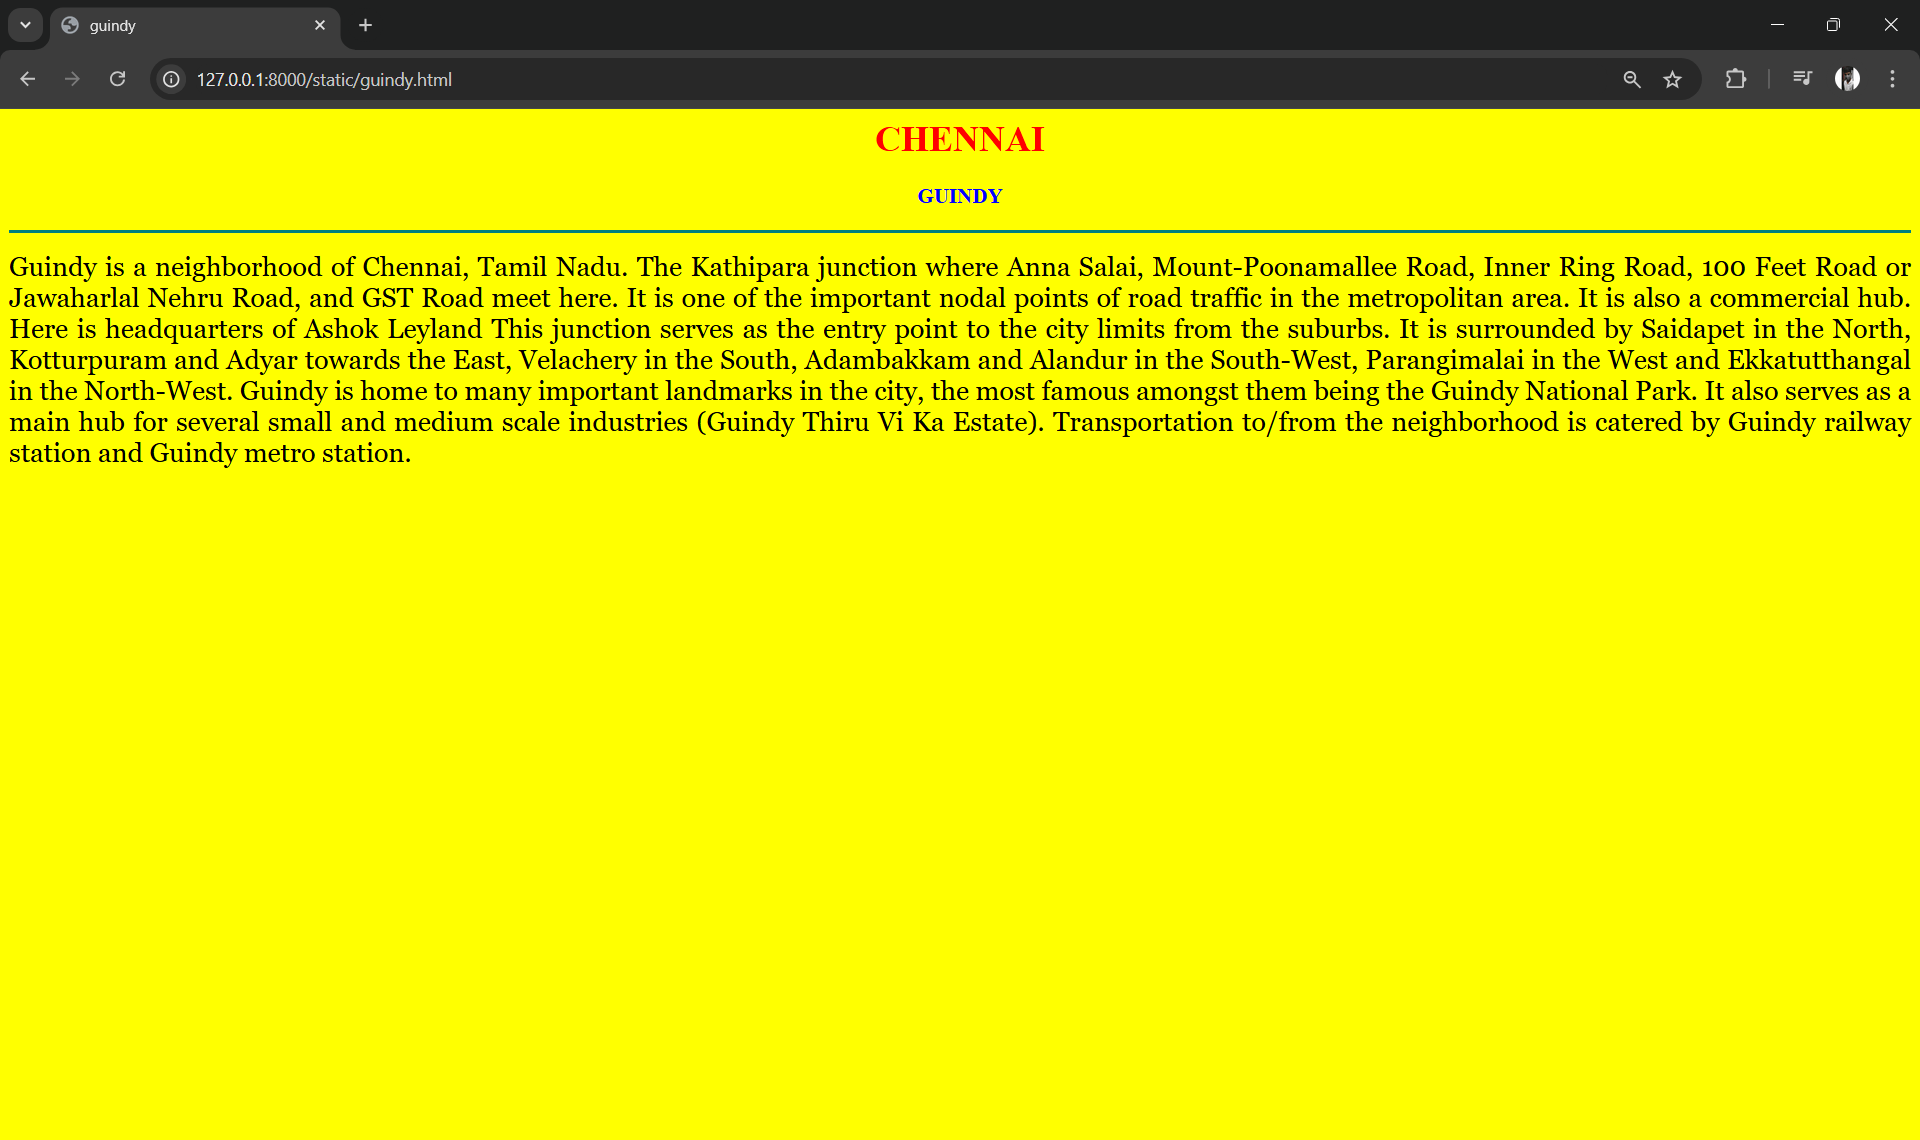
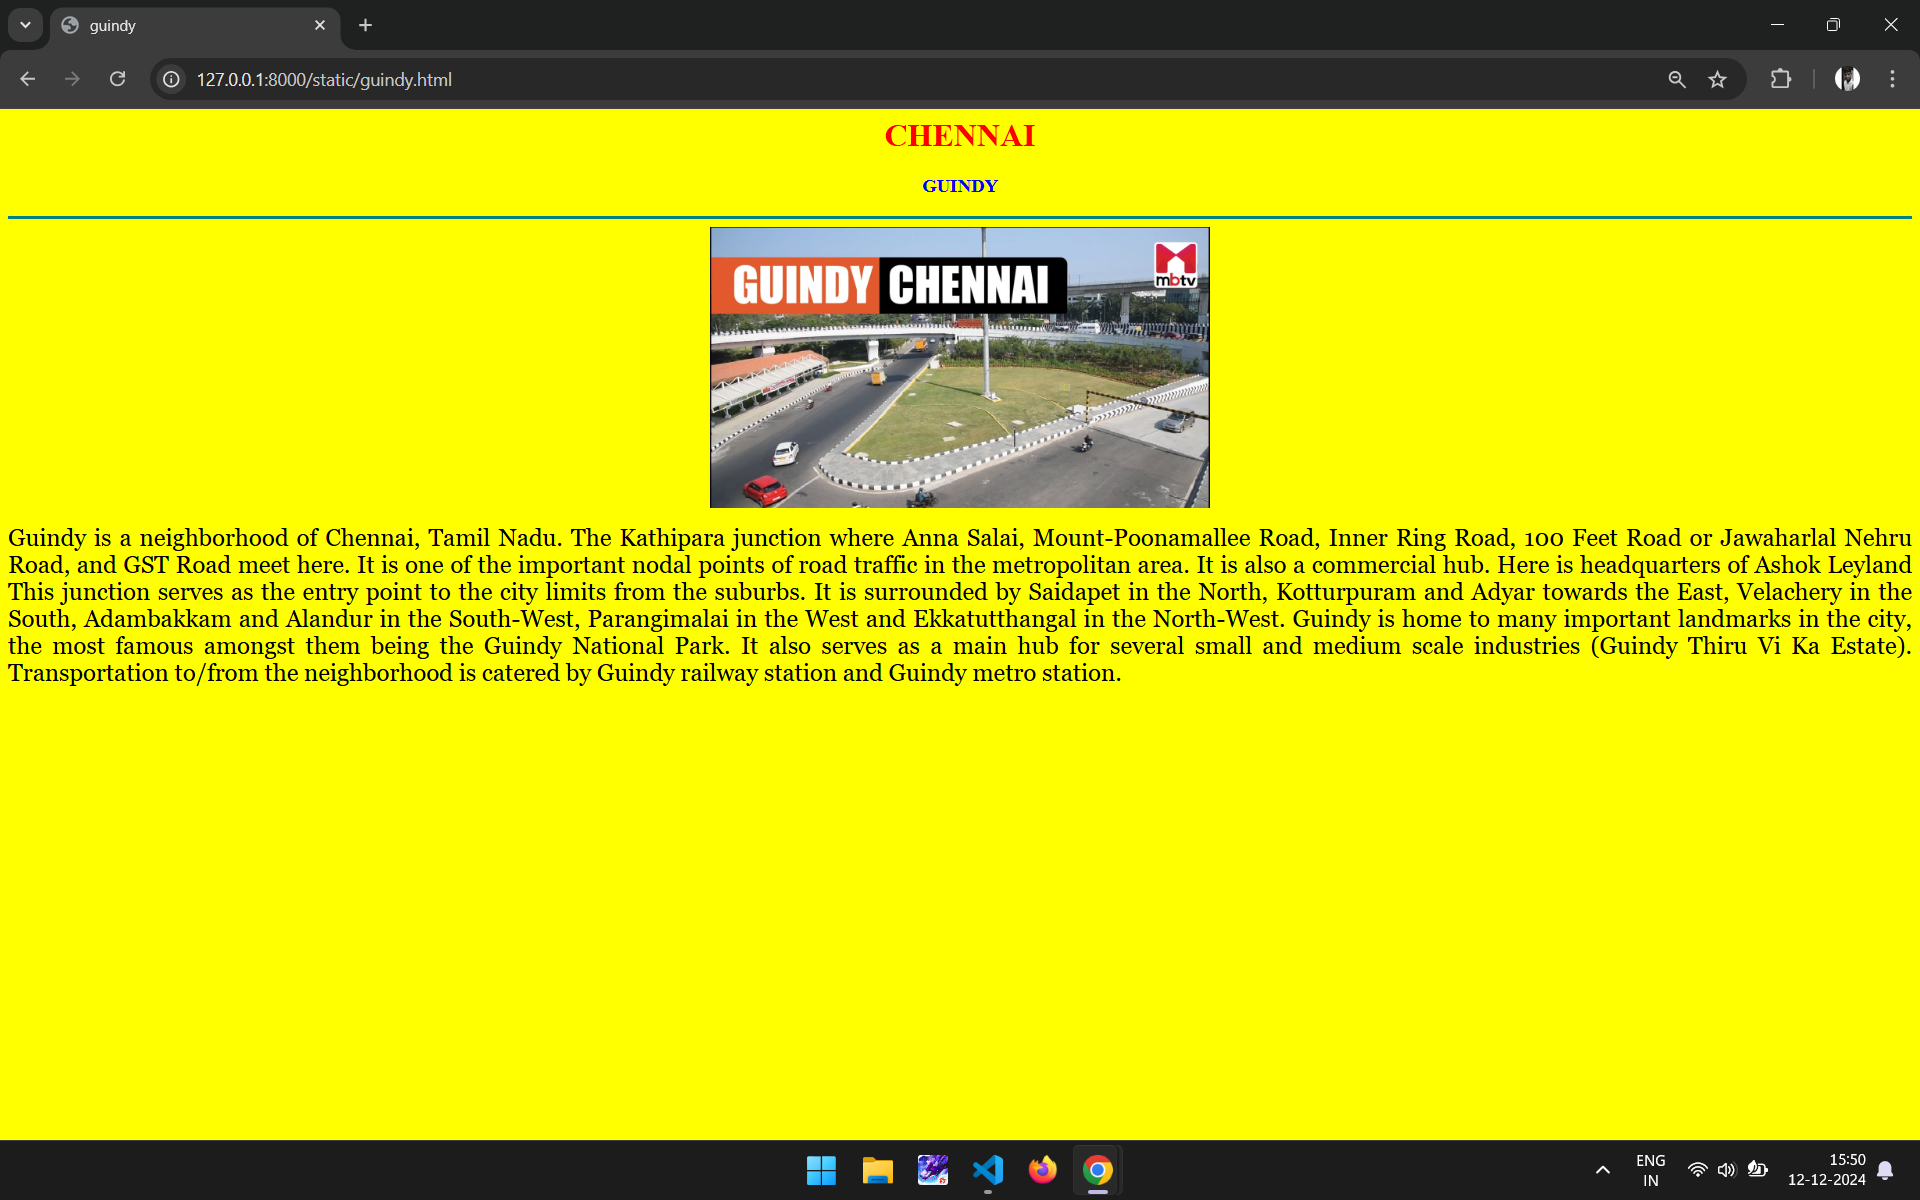
success

Changed region(s): [[0.0, 0.0307, 1.0, 0.5833], [0.0, 0.9518, 1.0, 1.0], [0.0312, 0.0, 0.0625, 0.0307]]

diff --git a/daniyel/mapapp/static/avadi.html b/daniyel/mapapp/static/avadi.html
@@ -1,21 +1,25 @@
 <html>
     <head>
-        <title>
-            avadi
-        </title>
+        <title>avadi</title>
     </head>
     <body bgcolor="cyan">
         <h1 align="center">
-            <font color="red"><b>CHENNAI</b></font></h1>
+            <font color="red"><b>CHENNAI</b></font>
+        </h1>
         <h3 align="center">
-
-        <font color="green"><b>AVADI</b></font>
+            <font color="green"><b>AVADI</b></font>
         </h3>
-       <hr size="3" color="teal">
-       <p align="justify" >
-        <font face="Georgia" size="5">
-            Avadi is a western suburb of Chennai, and the headquarters of Avadi taluk located within the Thiruvallur district of Tamil Nadu, India. Situated at about 22 kilometres (14 mi) from Chennai Central Railway Station, it is one of the four municipal corporations in the Chennai Metropolitan Area and is governed by the Avadi Municipal Corporation. It is surrounded by major defence establishments and is home to various universities and engineering colleges. The neighborhood is served by Avadi Railway Station of the Chennai Suburban Railway and just 7 km from the upcoming Karayanchavadi Metro of Chennai Metro Rail . As of 2011, Avadi had a population of 345,996, which is 10th most populous place in Tamil Nadu. It is home to the Heavy Vehicles Factory (HVF), Ordnance Factory Board (ODF) which houses Engine Factory and Combat Vehicles Research and Development Establishment (CVRDE). The lake in Avadi was known as Paaleripattu, which is now found only in very old land documents.
-        </font>
-       </p>
+        <hr size="3" color="teal">
+        
+        <!-- Add image here -->
+        <div align="center">
+            <img src="avadi.jpg" alt="Avadi Image" width="500" height="auto">
+        </div>
+
+        <p align="justify">
+            <font face="Georgia" size="5">
+                Avadi is a western suburb of Chennai, and the headquarters of Avadi taluk located within the Thiruvallur district of Tamil Nadu, India. Situated at about 22 kilometres (14 mi) from Chennai Central Railway Station, it is one of the four municipal corporations in the Chennai Metropolitan Area and is governed by the Avadi Municipal Corporation. It is surrounded by major defence establishments and is home to various universities and engineering colleges. The neighborhood is served by Avadi Railway Station of the Chennai Suburban Railway and just 7 km from the upcoming Karayanchavadi Metro of Chennai Metro Rail . As of 2011, Avadi had a population of 345,996, which is 10th most populous place in Tamil Nadu. It is home to the Heavy Vehicles Factory (HVF), Ordnance Factory Board (ODF) which houses Engine Factory and Combat Vehicles Research and Development Establishment (CVRDE). The lake in Avadi was known as Paaleripattu, which is now found only in very old land documents.
+            </font>
+        </p>
     </body>
 </html>

diff --git a/daniyel/mapapp/static/guindy.html b/daniyel/mapapp/static/guindy.html
@@ -1,20 +1,25 @@
 <html>
     <head>
-        <title>
-            guindy
-        </title>
+        <title>guindy</title>
     </head>
     <body bgcolor="yellow">
         <h1 align="center">
-            <font color="red"><b>CHENNAI</b></font></h1>
+            <font color="red"><b>CHENNAI</b></font>
+        </h1>
         <h3 align="center">
             <font color="blue"><b>GUINDY</b></font>
         </h3>
-       <hr size="3" color="teal">
-       <p align="justify" >
-        <font face="Georgia" size="5">
-            Guindy is a neighborhood of Chennai, Tamil Nadu. The Kathipara junction where Anna Salai, Mount-Poonamallee Road, Inner Ring Road, 100 Feet Road or Jawaharlal Nehru Road, and GST Road meet here. It is one of the important nodal points of road traffic in the metropolitan area. It is also a commercial hub. Here is headquarters of Ashok Leyland This junction serves as the entry point to the city limits from the suburbs. It is surrounded by Saidapet in the North, Kotturpuram and Adyar towards the East, Velachery in the South, Adambakkam and Alandur in the South-West, Parangimalai in the West and Ekkatutthangal in the North-West. Guindy is home to many important landmarks in the city, the most famous amongst them being the Guindy National Park. It also serves as a main hub for several small and medium scale industries (Guindy Thiru Vi Ka Estate). Transportation to/from the neighborhood is catered by Guindy railway station and Guindy metro station.
-        </font>
-       </p>
+        <hr size="3" color="teal">
+        
+        <!-- Add the image here -->
+        <div align="center">
+            <img src="guindy.jpg" alt="Guindy Image" width="500" height="auto">
+        </div>
+
+        <p align="justify">
+            <font face="Georgia" size="5">
+                Guindy is a neighborhood of Chennai, Tamil Nadu. The Kathipara junction where Anna Salai, Mount-Poonamallee Road, Inner Ring Road, 100 Feet Road or Jawaharlal Nehru Road, and GST Road meet here. It is one of the important nodal points of road traffic in the metropolitan area. It is also a commercial hub. Here is headquarters of Ashok Leyland This junction serves as the entry point to the city limits from the suburbs. It is surrounded by Saidapet in the North, Kotturpuram and Adyar towards the East, Velachery in the South, Adambakkam and Alandur in the South-West, Parangimalai in the West and Ekkatutthangal in the North-West. Guindy is home to many important landmarks in the city, the most famous amongst them being the Guindy National Park. It also serves as a main hub for several small and medium scale industries (Guindy Thiru Vi Ka Estate). Transportation to/from the neighborhood is catered by Guindy railway station and Guindy metro station.
+            </font>
+        </p>
     </body>
 </html>

diff --git a/daniyel/mapapp/static/ktemple.html b/daniyel/mapapp/static/ktemple.html
@@ -1,22 +1,27 @@
 <html>
     <head>
-        <title>
-            kapaleeshwarar temple
-        </title>
+        <title>kapaleeshwarar temple</title>
     </head>
     <body bgcolor="white">
         <h1 align="center">
-            <font color="red"><b>CHENNAI</b></font></h1>
+            <font color="red"><b>CHENNAI</b></font>
+        </h1>
         <h3 align="center">
             <font color="blue"><b>KAPALEESHWARAR TEMPLE</b></font>
         </h3>
-       <hr size="3" color="teal">
-       <p align="justify" >
-        <font face="Georgia" size="5">
-            The Kapaleeshwarar Temple is a Hindu temple dedicated to the god Shiva located in Mylapore, Chennai in the Indian state of Tamil Nadu. The temple was built around the 7th century CE and is an example of South Indian Architecture.[1][2]
+        <hr size="3" color="teal">
+        
+        <!-- Add the image here -->
+        <div align="center">
+            <img src="ktemple.jpg" alt="Kapaleeshwarar Temple" width="500" height="auto">
+        </div>
 
-According to the Puranas, Parvati worshipped her husband Shiva in the form of a peahen (mayil in Tamil), giving the vernacular name Mylai (Mayilāi) to the area that developed around the temple.[3] Shiva is worshiped as Kapaleeshwarar, and is represented by the lingam. Parvati is worshipped as Karpagambal (goddess of the wish-yielding tree). The presiding deity is revered in the 7th-century Tamil Shaiva canonical work, the Tevaram, written by Tamil saint poets known as the Nayanars and classified as one of the Paadal Petra Sthalam.
-        </font>
-       </p>
+        <p align="justify">
+            <font face="Georgia" size="5">
+                The Kapaleeshwarar Temple is a Hindu temple dedicated to the god Shiva located in Mylapore, Chennai in the Indian state of Tamil Nadu. The temple was built around the 7th century CE and is an example of South Indian Architecture.
+                <br><br>
+                According to the Puranas, Parvati worshipped her husband Shiva in the form of a peahen (mayil in Tamil), giving the vernacular name Mylai (Mayilāi) to the area that developed around the temple. Shiva is worshiped as Kapaleeshwarar, and is represented by the lingam. Parvati is worshipped as Karpagambal (goddess of the wish-yielding tree). The presiding deity is revered in the 7th-century Tamil Shaiva canonical work, the Tevaram, written by Tamil saint poets known as the Nayanars and classified as one of the Paadal Petra Sthalam.
+            </font>
+        </p>
     </body>
 </html>

diff --git a/daniyel/mapapp/static/vtemple.html b/daniyel/mapapp/static/vtemple.html
@@ -1,22 +1,27 @@
 <html>
     <head>
-        <title>
-            vellakottai temple
-        </title>
+        <title>vellakottai temple</title>
     </head>
     <body bgcolor="green">
         <h1 align="center">
-            <font color="red"><b>CHENNAI</b></font></h1>
+            <font color="red"><b>CHENNAI</b></font>
+        </h1>
         <h3 align="center">
             <font color="blue"><b>VELLAKOTTAI TEMPLE</b></font>
         </h3>
-       <hr size="3" color="teal">
-       <p align="justify" >
-        <font face="Georgia" size="5">
-            Vallakottai Subramaniyaswami temple (or Vallakottai Murugan temple) in Vallakottai, a panchayat town in Kanchipuram district in the South Indian state of Tamil Nadu, is dedicated to the Hindu god Murugan. Constructed in the Dravidian style of architecture, the temple is located in the Sriperumbudur - Singaperumalkoil road.
+        <hr size="3" color="teal">
+        
+        <!-- Add the image here -->
+        <div align="center">
+            <img src="vtemple.jpg" alt="Vallakottai Temple Image" width="500" height="auto">
+        </div>
 
-The temple has a gateway leading to a pillared hall and the sanctum. The temple is open from 6:30 am – 12:00 pm and 5 - 8:30 pm. Five daily rituals and many yearly festivals are held at the temple, of which the Adi Pooram festival being the most prominent. The temple is maintained and administered by the Hindu Religious and Endowment Board of the Government of Tamil Nadu.
-        </font>
-       </p>
+        <p align="justify">
+            <font face="Georgia" size="5">
+                Vallakottai Subramaniyaswami temple (or Vallakottai Murugan temple) in Vallakottai, a panchayat town in Kanchipuram district in the South Indian state of Tamil Nadu, is dedicated to the Hindu god Murugan. Constructed in the Dravidian style of architecture, the temple is located in the Sriperumbudur - Singaperumalkoil road.
+                <br><br>
+                The temple has a gateway leading to a pillared hall and the sanctum. The temple is open from 6:30 am – 12:00 pm and 5 - 8:30 pm. Five daily rituals and many yearly festivals are held at the temple, of which the Adi Pooram festival being the most prominent. The temple is maintained and administered by the Hindu Religious and Endowment Board of the Government of Tamil Nadu.
+            </font>
+        </p>
     </body>
 </html>

diff --git a/daniyel/mapapp/static/velachery.html b/daniyel/mapapp/static/velachery.html
@@ -1,22 +1,25 @@
-
-
 <html>
     <head>
-        <title>
-            velachery
-        </title>
+        <title>velachery</title>
     </head>
     <body bgcolor="pink">
         <h1 align="center">
-            <font color="red"><b>CHENNAI</b></font></h1>
+            <font color="red"><b>CHENNAI</b></font>
+        </h1>
         <h3 align="center">
             <font color="green"><b>VELACHERY</b></font>
         </h3>
-       <hr size="3" color="teal">
-       <p align="justify" >
-        <font face="Georgia" size="5">
-            Velachery is a neighborhood of Chennai. It is located in the southern part of the Chennai city sharing borders with Guindy in the north, Taramani in the east, Perungudi in the south-east, Pallikaranai in the south, Madipakkam in south-west, Adambakkam in the west and north-west. It is the headquarters of Velachery taluk and straddles the boundary between Chennai and Kancheepuram districts.
-        </font>
-       </p>
+        <hr size="3" color="teal">
+        
+        <!-- Add the image here -->
+        <div align="center">
+            <img src="velachery.jpg" alt="Velachery Image" width="500" height="auto">
+        </div>
+
+        <p align="justify">
+            <font face="Georgia" size="5">
+                Velachery is a neighborhood of Chennai. It is located in the southern part of the Chennai city sharing borders with Guindy in the north, Taramani in the east, Perungudi in the south-east, Pallikaranai in the south, Madipakkam in south-west, Adambakkam in the west and north-west. It is the headquarters of Velachery taluk and straddles the boundary between Chennai and Kancheepuram districts.
+            </font>
+        </p>
     </body>
 </html>
